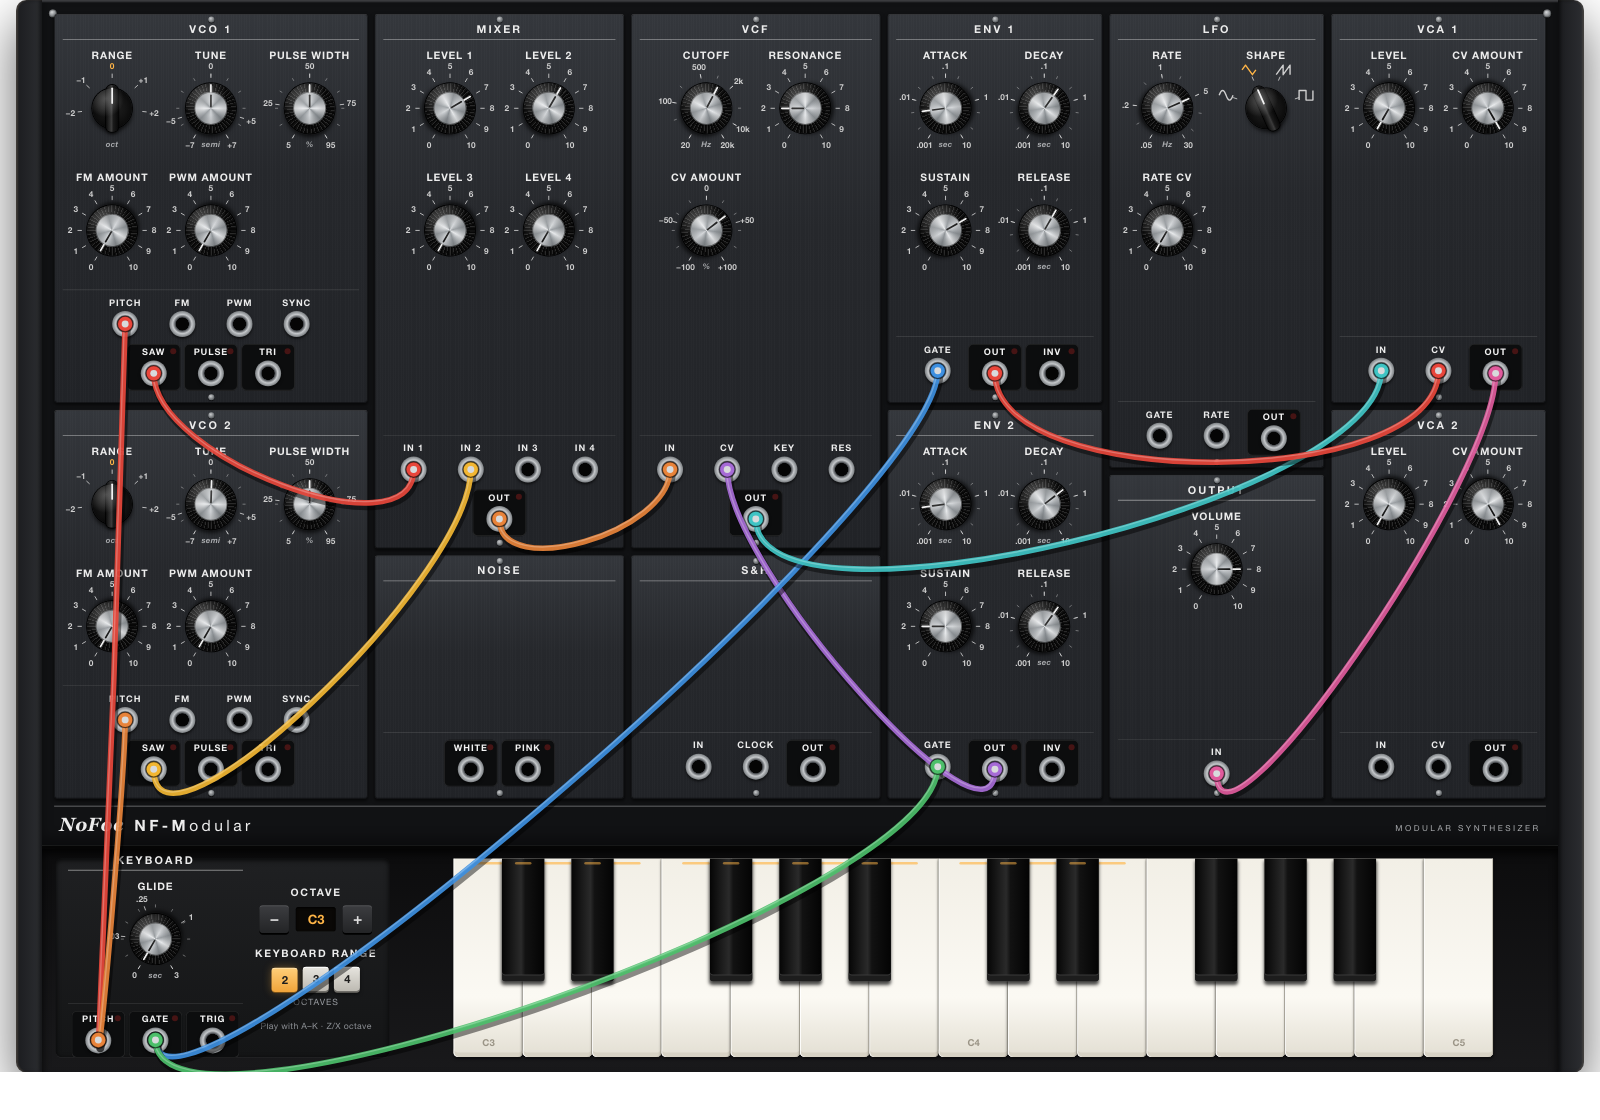
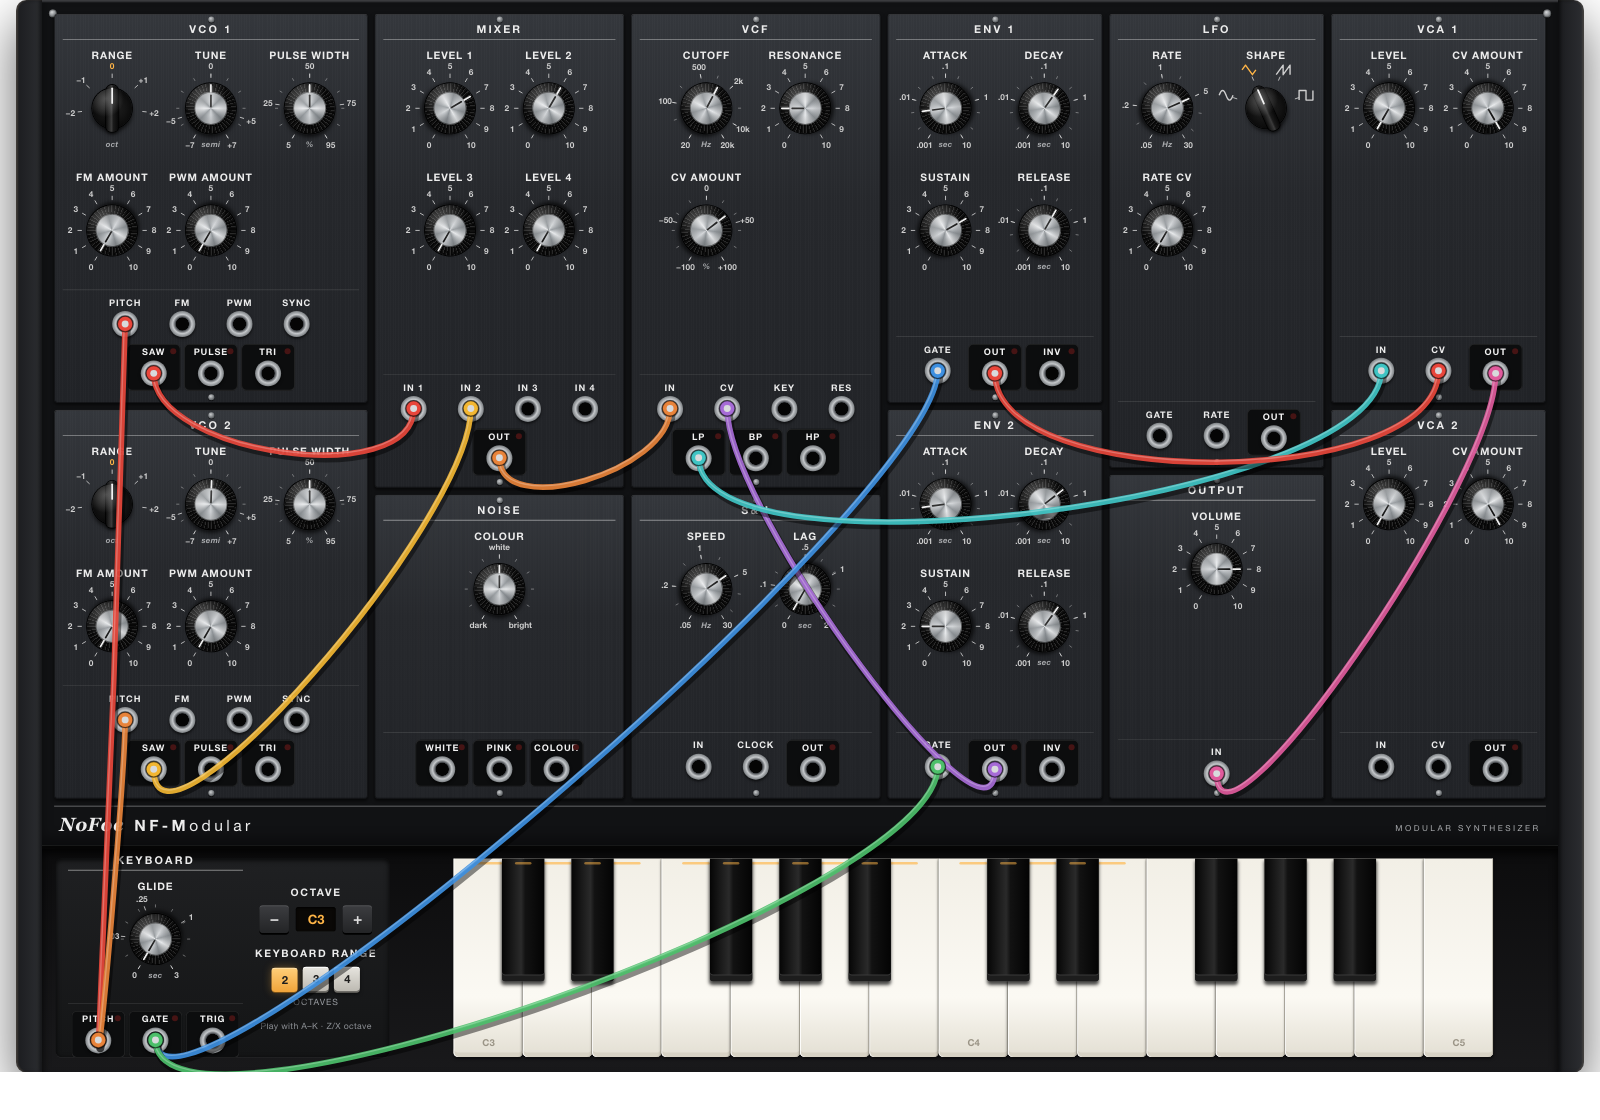
NF-Modular: see-through cables, noise colour, S&H speed and lag, VCF HP/BP
Cables near the mouse fade (their plugs stay visible); a See-through cables
switch fades them all. Noise gets a Colour knob and Colour output (dark to
bright) alongside White and Pink. S&H gets its own Speed clock (a patched Clock
takes over) and Lag, which glides between samples like a random LFO. The VCF
adds band-pass and high-pass outputs (2-pole state-variable) beside the 4-pole
low-pass. New presets: Random Wander, Thin Highpass.

diff --git a/js/help.js b/js/help.js
@@ -372,6 +372,7 @@ export const HELP = {
   },
   'fx.rsize': { title: 'Reverb size', body: ['How big the space is, as the length of its tail: from about ¾ second (a room) to 3 seconds (a hall).'] },
   'fx.reverb': { title: 'Reverb amount', body: ['How much of the reverberant space you hear. At 0 the reverb is off.'] },
+  fadedcables: { title: 'See-through cables', body: ['Makes every patch cable faint, so the knobs underneath are easy to see. The plugs at each end stay visible, so you can still tell what is connected.', 'Cables also fade by themselves wherever the mouse goes near them.'] },
   maximise: {
     title: 'Maximise',
     body: ['Makes the oscilloscope and spectrum much bigger, for looking closely at the sound. The keyboard folds away so the synth\'s controls stay in view (your computer keyboard still plays). Press RESTORE to bring the keyboard back.'],
@@ -550,7 +551,9 @@ export const HELP_NFMOD = {
   'out:kb.pitch': { title: 'Keyboard: Pitch output', body: ['Which note is played, 1 V per octave.'] },
   'out:kb.gate': { title: 'Keyboard: Gate output', body: ['High while a key is held.'] },
   'out:kb.trig': { title: 'Keyboard: Trig output', body: ['A short pulse each time a key is pressed. Use it to restart an LFO or clock the S&H on every note.'] },
-  'section:noise': { title: 'Noise', body: ['Random signal at every frequency. White is bright and hissy (equal energy per frequency); Pink is darker and rounder (equal energy per octave). Use it as a sound (wind, drums, breath) or as a random control signal.'] },
+  'section:noise': { title: 'Noise', body: ['Random signal at every frequency. White is bright and hissy (equal energy per frequency); Pink is darker and rounder (equal energy per octave). The Colour output is set by the Colour knob, from dark rumble through white to a thin, bright hiss.', 'Use noise as a sound (wind, drums, breath) or as a random control signal.'] },
+  'noise.colour': { title: 'Colour', body: ['Sets the tone of the Colour output: turn left for darker noise (like distant surf), right for brighter, thinner noise (like steam). In the centre it is white noise.'] },
+  'out:noise.col': { title: 'Noise: Colour output', body: ['Noise with the tone set by the Colour knob.'] },
   'out:noise.white': { title: 'Noise: White', body: ['Bright, hissing noise.'] },
   'out:noise.pink': { title: 'Noise: Pink', body: ['Darker, rumbling noise.'] },
   'section:mix': { title: 'Mixer', body: ['Adds up to four signals into one, each with its own level. Mix the two VCOs, add noise, or mix control signals (an envelope and an LFO) before they go into one CV input.'] },
@@ -563,21 +566,25 @@ export const HELP_NFMOD = {
   'jack.mix.in3': { title: 'Mixer: In 3', body: ['Any signal, set by Level 3.'] },
   'jack.mix.in4': { title: 'Mixer: In 4', body: ['Any signal, set by Level 4.'] },
   'out:mix.out': { title: 'Mixer: Out', body: ['All four inputs added together.'] },
-  'section:filt': { title: 'VCF (Voltage-Controlled Filter)', body: ['A 24 dB/octave low-pass filter. Its cutoff moves with CV (scaled by CV Amount) and with Key (exactly one octave per octave: patch the Keyboard\'s Pitch here and the filter follows the notes). Res adds to the Resonance knob.'] },
+  'section:filt': { title: 'VCF (Voltage-Controlled Filter)', body: ['A filter with three outputs: LP (low-pass, 24 dB/octave: keeps the lows, darkens the sound), BP (band-pass: keeps only a band around the cutoff, thin and nasal) and HP (high-pass: removes the lows, thin and bright). BP and HP are gentler, 12 dB/octave.', 'All three move together: the cutoff follows CV (scaled by CV Amount) and Key (exactly one octave per octave: patch the Keyboard\'s Pitch here and the filter follows the notes). Res adds to the Resonance knob.'] },
   'filt.cv': { title: 'CV Amount', body: ['How far, and which way, the CV input moves the cutoff.'] },
   'jack.filt.in': { title: 'VCF: In', body: ['The sound to filter, usually the Mixer\'s Out.'] },
   'jack.filt.cv': { title: 'VCF: CV input', body: ['Moves the cutoff by the signal here, scaled by CV Amount.'] },
   'jack.filt.key': { title: 'VCF: Key input', body: ['Moves the cutoff one octave for each octave of signal, so the Keyboard\'s Pitch here makes the tone stay even from low notes to high (keyboard tracking). With Resonance up, the filter plays in tune.'] },
   'jack.filt.res': { title: 'VCF: Res input', body: ['Adds the signal here to the Resonance setting: an envelope or LFO makes the resonance come and go.'] },
-  'out:filt.out': { title: 'VCF: Out', body: ['The filtered sound.'] },
+  'out:filt.out': { title: 'VCF: LP (low-pass) output', body: ['Keeps the frequencies below the cutoff: turning Cutoff down makes it darker.'] },
+  'out:filt.bp': { title: 'VCF: BP (band-pass) output', body: ['Keeps only a band of frequencies around the cutoff: a thin, nasal, telephone-like sound. With Resonance up it becomes a singing, vocal tone.'] },
+  'out:filt.hp': { title: 'VCF: HP (high-pass) output', body: ['Keeps the frequencies above the cutoff: turning Cutoff up removes more of the body and bass, leaving a thin, bright sound.'] },
   'section:lfo': { title: 'LFO', body: ['A slow wave for moving other things. Gate restarts it; Rate speeds it up or slows it down by the signal there (scaled by Rate CV).'] },
   'lfo.rcv': { title: 'Rate CV', body: ['How much a signal in the Rate input changes the LFO\'s speed. An envelope here makes the wobble speed up or slow down during a note.'] },
   'jack.lfo.gate': { title: 'LFO: Gate input', body: ['Restarts the wave each time the signal here rises: the Keyboard\'s Gate or Trig gives key sync.'] },
   'jack.lfo.rate': { title: 'LFO: Rate input', body: ['Changes the LFO\'s speed by the signal here, scaled by Rate CV.'] },
   'out:lfo.out': { title: 'LFO: Out', body: ['The slow LFO wave, −1 to 1.'] },
-  'section:sh': { title: 'S&H (Sample and Hold)', body: ['Each time the Clock input rises, it measures (samples) the In and holds that value until the next clock. With nothing in In it samples noise, giving a new random value each time: the classic "random bleeps" when patched into the VCF\'s CV.'] },
+  'section:sh': { title: 'S&H (Sample and Hold)', body: ['On each clock it measures (samples) the In and holds that value until the next clock. With nothing in In it samples noise, giving a new random value each time: the classic "random bleeps" when patched into the VCF\'s CV.', 'It has its own clock, set by Speed; a signal in the Clock input takes over from it. Lag makes the output glide to each new value instead of jumping, turning it into a smooth, random LFO.'] },
+  'sh.rate': { title: 'Speed', body: ['How often it takes a new sample, when nothing is patched into Clock.'] },
+  'sh.lag': { title: 'Lag', body: ['How long the output takes to glide to each new value. 0 jumps in steps; turned up, the steps become smooth, wandering curves: a random LFO.'] },
   'jack.sh.in': { title: 'S&H: In', body: ['The signal to sample. Empty: noise (random values).'] },
-  'jack.sh.clock': { title: 'S&H: Clock input', body: ['Each rise here takes a new sample. A square LFO gives a steady rhythm; the Keyboard\'s Trig gives one per note.'] },
+  'jack.sh.clock': { title: 'S&H: Clock input', body: ['Each rise here takes a new sample, instead of the Speed knob\'s clock. A square LFO gives a steady rhythm; the Keyboard\'s Trig gives one new value per note.'] },
   'out:sh.out': { title: 'S&H: Out', body: ['The held value: a staircase of steps.'] },
   'section:out': { title: 'Output', body: ['What you hear. Patch the end of your chain into In.'] },
   'out.vol': { title: 'Volume', body: ['The overall loudness.'] },

diff --git a/js/worklet/nfmod-processor.js b/js/worklet/nfmod-processor.js
@@ -79,7 +79,7 @@ class VCO {
 }
 
 const OUTPUTS = ['kb.pitch', 'kb.gate', 'kb.trig', 'vco1.saw', 'vco1.sq', 'vco1.tri', 'vco2.saw', 'vco2.sq', 'vco2.tri',
-  'noise.white', 'noise.pink', 'mix.out', 'filt.out', 'env1.out', 'env1.inv', 'env2.out', 'env2.inv', 'lfo.out', 'sh.out',
+  'noise.white', 'noise.pink', 'noise.col', 'mix.out', 'filt.out', 'filt.bp', 'filt.hp', 'env1.out', 'env1.inv', 'env2.out', 'env2.inv', 'lfo.out', 'sh.out',
   'vca1.out', 'vca2.out'];
 
 class NFModProcessor extends AudioWorkletProcessor {
@@ -92,7 +92,9 @@ class NFModProcessor extends AudioWorkletProcessor {
     this.vco1 = new VCO(); this.vco2 = new VCO();
     this.env1 = new Envelope(); this.env2 = new Envelope();
     this.lfoPh = 0; this.lfoT = 0; this.lfoGateWas = 0;
-    this.shVal = 0; this.shClockWas = 0;
+    this.shVal = 0; this.shOut = 0; this.shClockWas = 0; this.shPh = 0;
+    this.colLp = 0; this.colHp = 0; this.colPrev = 0;
+    this.ic1 = 0; this.ic2 = 0; // the state-variable filter behind the BP and HP outputs
     this.pink = [0, 0, 0];
     this.s = [0, 0, 0, 0];
     this.o = {}; this.peak = {};
@@ -153,6 +155,13 @@ class NFModProcessor extends AudioWorkletProcessor {
     const lfoShape = p['lfo.shape'], lfoRate = p['lfo.rate'], lfoRcv = p['lfo.rcv'] * LFO_RATE_CV_OCTAVES;
     const vcas = [[p['vca1.level'], p['vca1.cv']], [p['vca2.level'], p['vca2.cv']]];
     const vol = p['out.vol'];
+    // noise colour: below 0 a low-pass darkens it (down to ~150 Hz), above 0 a high-pass thins it (from 200 Hz up to ~10 kHz)
+    const colour = p['noise.colour'];
+    const colLpA = colour < 0 ? 1 - Math.exp(-TWO_PI * 20000 * Math.pow(2, colour * 7) / sr) : 1;
+    const colHpA = colour > 0 ? Math.exp(-TWO_PI * 200 * Math.pow(2, colour * 5.6) / sr) : 0; // 200 Hz to ~10 kHz
+    const colGain = 1 + Math.abs(colour) * 1.5; // keep it roughly as loud as it gets darker or brighter
+    const shInc = p['sh.rate'] / sr;
+    const shLag = p['sh.lag'] > 0.001 ? 1 - Math.exp(-4.6 / (p['sh.lag'] * sr)) : 1;
     const pk2 = this.peak;
 
     for (let i = 0; i < n; i++) {
@@ -172,6 +181,9 @@ class NFModProcessor extends AudioWorkletProcessor {
       pk[2] = 0.57 * pk[2] + white * 1.0526913;
       o['noise.white'] = white * 0.7;
       o['noise.pink'] = (pk[0] + pk[1] + pk[2] + white * 0.1848) * 0.16;
+      this.colLp += (white - this.colLp) * colLpA;
+      this.colHp = colHpA * (this.colHp + this.colLp - this.colPrev); this.colPrev = this.colLp;
+      o['noise.col'] = (colour > 0 ? this.colHp : this.colLp) * 0.7 * colGain;
 
       // ---- LFO: Rate CV speeds it up or slows it down; a rising Gate restarts it
       const lg = read('lfo.gate') > 0.5 ? 1 : 0;
@@ -189,11 +201,20 @@ class NFModProcessor extends AudioWorkletProcessor {
       const e2 = this.env2.next(read('env2.gate'));
       o['env2.out'] = e2; o['env2.inv'] = -e2;
 
-      // ---- sample & hold: on each rising Clock, grab the In (or white noise if nothing is patched)
-      const clk = read('sh.clock');
-      if (clk > 0.2 && this.shClockWas <= 0.2) this.shVal = J['sh.in'] ? o[J['sh.in']] : white;
-      this.shClockWas = clk;
-      o['sh.out'] = this.shVal;
+      // ---- sample & hold: on each rising Clock (or its own Speed clock when nothing is in Clock),
+      // grab the In (or white noise if nothing is patched). Lag glides to each new value.
+      let tick = false;
+      if (J['sh.clock']) {
+        const clk = o[J['sh.clock']];
+        tick = clk > 0.2 && this.shClockWas <= 0.2;
+        this.shClockWas = clk;
+      } else {
+        this.shPh += shInc;
+        if (this.shPh >= 1) { this.shPh -= 1; tick = true; }
+      }
+      if (tick) this.shVal = J['sh.in'] ? o[J['sh.in']] : white;
+      this.shOut += (this.shVal - this.shOut) * shLag;
+      o['sh.out'] = this.shOut;
 
       // ---- VCOs
       let pw = v1.pw + read('vco1.pwm') * v1.pwm; pw = pw < 0.05 ? 0.05 : pw > 0.95 ? 0.95 : pw;
@@ -223,6 +244,16 @@ class NFModProcessor extends AudioWorkletProcessor {
         u = y;
       }
       o['filt.out'] = u * (1 + fb * 0.45);
+      // BP and HP come from a 2-pole state-variable filter at the same cutoff and resonance
+      // (zero-delay-feedback form), so all three outputs move together
+      const k = 2 - 1.96 * res;
+      const a1 = 1 / (1 + gg * (gg + k)), a2 = gg * a1, a3 = gg * a2;
+      const sv3 = x - this.ic2;
+      const sv1 = a1 * this.ic1 + a2 * sv3;
+      const sv2 = this.ic2 + a2 * this.ic1 + a3 * sv3;
+      this.ic1 = 2 * sv1 - this.ic1; this.ic2 = 2 * sv2 - this.ic2;
+      o['filt.bp'] = sv1 * (0.5 + k * 0.5);
+      o['filt.hp'] = x - k * sv1 - sv2;
       if (i === n - 1) this.lastFc = fc;
 
       // ---- VCAs: Level opens it by hand; CV (scaled by CV Amount) opens it further

diff --git a/js/synths/nfmod.js b/js/synths/nfmod.js
@@ -22,8 +22,11 @@ export const OUTPUTS = {
   'vco2.tri': { label: 'Tri', module: 'VCO 2' },
   'noise.white': { label: 'White', module: 'Noise' },
   'noise.pink': { label: 'Pink', module: 'Noise' },
+  'noise.col': { label: 'Colour', module: 'Noise' },
   'mix.out': { label: 'Out', module: 'Mixer' },
-  'filt.out': { label: 'Out', module: 'VCF' },
+  'filt.out': { label: 'LP', module: 'VCF' },
+  'filt.bp': { label: 'BP', module: 'VCF' },
+  'filt.hp': { label: 'HP', module: 'VCF' },
   'env1.out': { label: 'Out', module: 'ENV 1' },
   'env1.inv': { label: 'Inv', module: 'ENV 1' },
   'env2.out': { label: 'Out', module: 'ENV 2' },
@@ -63,6 +66,16 @@ export const PARAMS = {
   'filt.cutoff': pick('filt.cutoff', { def: 1200 }),
   'filt.res': pick('filt.res', { def: 0.2 }),
   'filt.cv': bipolar('CV Amount'),
+
+  // noise colour: darker (left) through white (centre) to brighter (right), for the Colour output
+  'noise.colour': { ...bipolar('Colour'), marks: [[-1, 'dark'], [0, 'white'], [1, 'bright']], unit: '',
+    fmt: (v) => (Math.abs(v) < 0.03 ? 'white' : v < 0 ? `darker ${Math.round(-v * 100)}%` : `brighter ${Math.round(v * 100)}%`) },
+
+  // sample & hold: its own clock (when nothing is in Clock) and a lag that glides between steps
+  'sh.rate': { ...NF1_PARAMS['lfo.rate'], label: 'Speed', def: 4 },
+  'sh.lag': { type: 'cont', label: 'Lag', min: 0, max: 2, def: 0, curve: 'pow', k: 2, unit: 'sec',
+    fmt: (v) => (v < 0.001 ? 'off' : v < 1 ? Math.round(v * 1000) + ' ms' : v.toFixed(2) + ' s'),
+    marks: [[0, '0'], [0.1, '.1'], [0.5, '.5'], [1, '1'], [2, '2']] },
 
   ...env(1, 0.005, 0.3, 0.7, 0.25),
   ...env(2, 0.005, 0.5, 0.2, 0.3),
@@ -104,12 +117,12 @@ export const LAYOUT = [
   [
     { id: 'mix', title: 'Mixer', rows: [['mix.l1', 'mix.l2'], ['mix.l3', 'mix.l4']],
       jacks: [['jack.mix.in1', 'jack.mix.in2', 'jack.mix.in3', 'jack.mix.in4'], ['out:mix.out']] },
-    { id: 'noise', title: 'Noise', rows: [], jacks: [['out:noise.white', 'out:noise.pink']] },
+    { id: 'noise', title: 'Noise', rows: [['noise.colour']], jacks: [['out:noise.white', 'out:noise.pink', 'out:noise.col']] },
   ],
   [
     { id: 'filt', title: 'VCF', rows: [['filt.cutoff', 'filt.res'], ['filt.cv', null]],
-      jacks: [['jack.filt.in', 'jack.filt.cv', 'jack.filt.key', 'jack.filt.res'], ['out:filt.out']] },
-    { id: 'sh', title: 'S&H', rows: [], jacks: [['jack.sh.in', 'jack.sh.clock', 'out:sh.out']] },
+      jacks: [['jack.filt.in', 'jack.filt.cv', 'jack.filt.key', 'jack.filt.res'], ['out:filt.out', 'out:filt.bp', 'out:filt.hp']] },
+    { id: 'sh', title: 'S&H', rows: [['sh.rate', 'sh.lag']], jacks: [['jack.sh.in', 'jack.sh.clock', 'out:sh.out']] },
   ],
   [
     { id: 'env1', title: 'ENV 1', rows: [['env1.a', 'env1.d'], ['env1.s', 'env1.r']], jacks: [['jack.env1.gate', 'out:env1.out', 'out:env1.inv']] },
@@ -142,11 +155,16 @@ export const PRESETS = {
     'osc2.range': 1, 'osc2.tune': 0, 'osc2.fm': 0.6, 'env2.d': 0.8, 'env2.s': 0.3, 'filt.cutoff': 3000, 'filt.cv': 0.2,
   },
   'Random Bleeps': {
-    ...cable('sh.clock', 'lfo.out'), ...cable('filt.cv', 'sh.out'), 'lfo.shape': 'square', 'lfo.rate': 6,
-    'filt.cutoff': 800, 'filt.res': 0.7, 'filt.cv': 0.5,
+    ...cable('filt.cv', 'sh.out'), 'sh.rate': 6, 'filt.cutoff': 800, 'filt.res': 0.7, 'filt.cv': 0.5,
+  },
+  'Random Wander': {
+    ...cable('filt.cv', 'sh.out'), 'sh.rate': 1.5, 'sh.lag': 0.6, 'filt.cutoff': 700, 'filt.res': 0.5, 'filt.cv': 0.45, 'env1.a': 0.2, 'env1.r': 0.6,
+  },
+  'Thin Highpass': {
+    ...cable('vca1.in', 'filt.hp'), 'filt.cutoff': 900, 'filt.res': 0.4, 'filt.cv': 0,
   },
   'Noise Hat': {
-    ...cable('mix.in1', 'noise.white'), ...cable('mix.in2', ''), ...cable('filt.key', ''), 'mix.l1': 0.8,
+    ...cable('mix.in1', 'noise.col'), ...cable('mix.in2', ''), 'noise.colour': 0.6, 'mix.l1': 0.8,
     'filt.cutoff': 9000, 'filt.res': 0.3, 'filt.cv': 0, 'env1.a': 0.001, 'env1.d': 0.08, 'env1.s': 0, 'env1.r': 0.05,
   },
   'Tremolo Pad': {

diff --git a/js/cables.js b/js/cables.js
@@ -56,7 +56,7 @@ export class Cables {
     this.layer = svg('svg', { class: 'cable-layer' });
     stage.appendChild(this.layer);
     this.drag = null;
-    window.addEventListener('pointermove', (e) => this.onMove(e));
+    window.addEventListener('pointermove', (e) => { this.onMove(e); this.fadeNear(e); });
     window.addEventListener('pointerup', (e) => this.onUp(e));
     window.addEventListener('pointercancel', () => this.cancel());
     // anything that moves the modules (window size, scopes, help, effects drawer) redraws the cables
@@ -117,6 +117,9 @@ export class Cables {
     const sag = Math.min(150, 26 + Math.abs(b[0] - a[0]) * 0.22 + Math.abs(b[1] - a[1]) * 0.06);
     const d = `M${a[0]},${a[1]} C${a[0]},${a[1] + sag} ${b[0]},${b[1] + sag} ${b[0]},${b[1]}`;
     const g = svg('g', { class: 'cable' + (live ? ' live' : '') }, parent);
+    // points along the cable, for fading it when the mouse comes near (see fadeNear)
+    const bez = (t, p0, p1, p2, p3) => (1 - t) ** 3 * p0 + 3 * (1 - t) ** 2 * t * p1 + 3 * (1 - t) * t * t * p2 + t ** 3 * p3;
+    g._pts = Array.from({ length: 25 }, (_, i) => { const t = i / 24; return [bez(t, a[0], a[0], b[0], b[0]), bez(t, a[1], a[1] + sag, b[1] + sag, b[1])]; });
     svg('path', { d, class: 'cable-shadow' }, g);
     svg('path', { d, class: 'cable-body', stroke: colour }, g);
     svg('path', { d, class: 'cable-shine' }, g);
@@ -145,6 +148,19 @@ export class Cables {
       const d = this.drag;
       d.g = this.drawCable(this.pos(d.anchor), d.at, d.colour, L, true);
     }
+  }
+
+  // Cables near the mouse fade almost away (their plugs stay), so the knobs underneath can be
+  // seen and turned. While a knob is being turned, the cables stay as they are.
+  fadeNear(e) {
+    if (this.drag || document.body.classList.contains('knob-dragging')) return;
+    const [x, y] = this.toStage(e.clientX, e.clientY);
+    const R = 70; // design pixels
+    this.layer.querySelectorAll('.cable').forEach((g) => {
+      if (!g._pts) return;
+      const near = g._pts.some(([px, py]) => (px - x) ** 2 + (py - y) ** 2 < R * R);
+      g.classList.toggle('near', near);
+    });
   }
 
   // ---- dragging ----

diff --git a/css/synth.css b/css/synth.css
@@ -1071,6 +1071,15 @@ body.patching-in .socket[data-jack], body.patching-out .socket[data-out] { box-s
 .cable .plug { stroke: rgba(0,0,0,0.6); stroke-width: 1.5; }
 .cable .plug-tip { fill: #d8dadc; }
 .cable.live { opacity: 0.85; }
+/* see-through cables: near the mouse (always), or everywhere with the See-through switch.
+   The plugs stay visible so you can still see what is connected. */
+.cable .cable-shadow, .cable .cable-body, .cable .cable-shine { transition: opacity 0.18s; }
+.cable.near .cable-shadow, .cable.near .cable-shine { opacity: 0; }
+.cable.near .cable-body { opacity: 0.14; }
+body.cables-faded .cable:not(.live) .cable-shadow, body.cables-faded .cable:not(.live) .cable-shine { opacity: 0; }
+body.cables-faded .cable:not(.live) .cable-body { opacity: 0.3; }
+body.cables-faded .cable.near .cable-body { opacity: 0.1; }
+.ctl.modular-only[hidden] { display: none; }
 body.preview .cable-layer { display: block; }
 /* the keyboard's jacks sit with its Glide knob, left of the keys */
 body[data-skin="modular"] .perf .jack-strip { border-top-color: rgba(255,255,255,0.12); }

diff --git a/js/main.js b/js/main.js
@@ -178,6 +178,18 @@ function buildToolbar() {
   });
 
 
+  // See-through cables (modular synths): off by default, remembered
+  const faded = document.getElementById('faded-cables');
+  if (faded && SYNTH.modular) {
+    faded.parentNode.hidden = false;
+    faded.checked = loadPref('sl.cablesFaded', '0') === '1';
+    document.body.classList.toggle('cables-faded', faded.checked);
+    faded.addEventListener('change', (e) => {
+      document.body.classList.toggle('cables-faded', e.target.checked);
+      savePref('sl.cablesFaded', e.target.checked ? '1' : '0');
+    });
+  }
+
   // scope timebase
   const tb = document.getElementById('tb-buttons');
   const hold = document.getElementById('hold-btn');

diff --git a/index.html b/index.html
@@ -29,6 +29,7 @@
       </div>
       <button id="btn-init" class="btn free-only" data-help="init">Init</button>
       <label class="ctl check" data-help="showvalues"><input type="checkbox" id="show-values"> Show values</label>
+      <label class="ctl check modular-only" data-help="fadedcables" hidden><input type="checkbox" id="faded-cables"> See-through cables</label>
       <div class="zoom-ctl" data-help="zoom">
         <button id="zoom-out" aria-label="Zoom out">−</button>
         <button id="zoom-level" class="zoom-level" title="Fit to window">100%</button>
